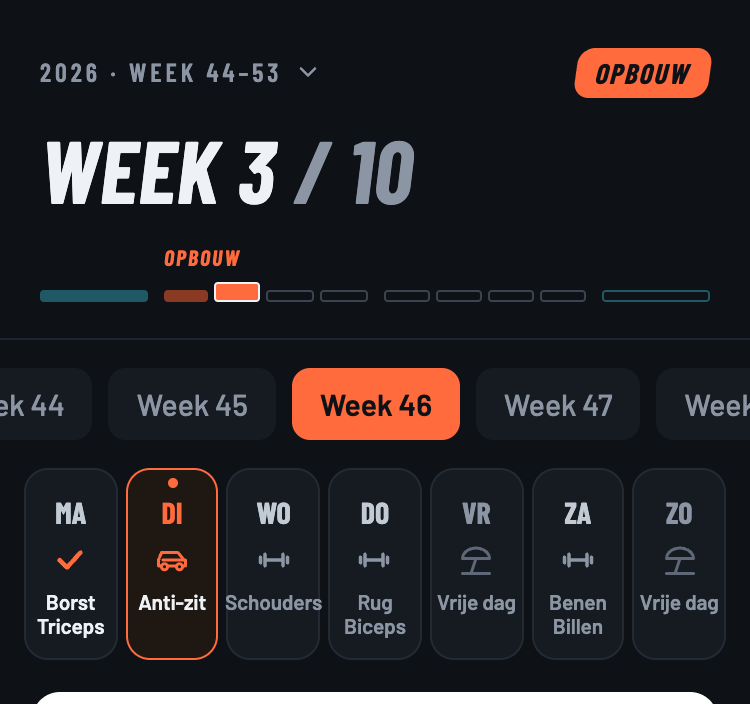
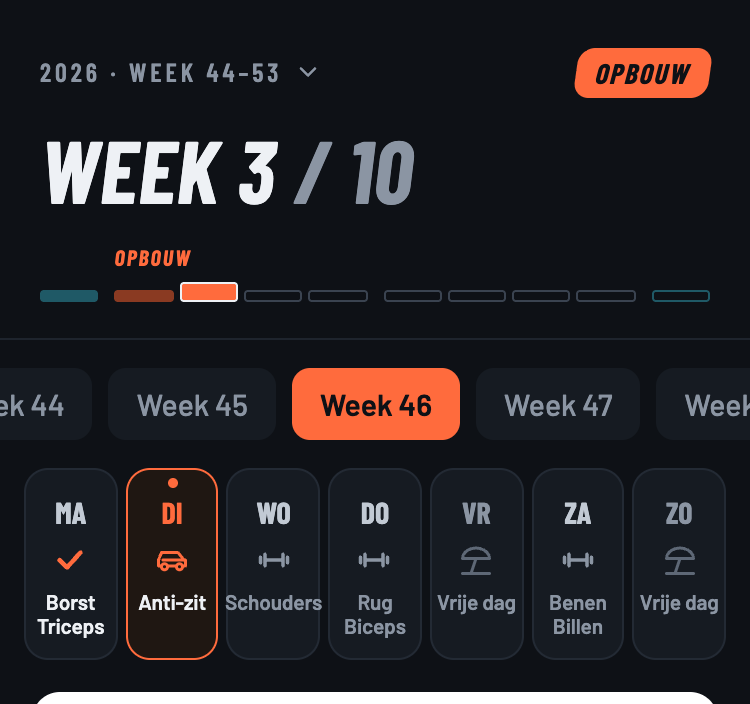
workout-app: phase bar — every week the same width, deload included
Drop the fixed 54px deload group width: each group's flex now grows with
its week count, with a basis equal to its own 3px inter-week gaps so bars in
bigger groups aren't narrower. Done bars get a 1px border in their own fill
colour, since a borderless bar came out 2px narrower than bordered ones
(flex 1 + border-box). Phase label above the current group unchanged.
Spec item 1 and CLAUDE.md updated to match. Flag-on only; flag off still
0-pixel diff against main (8/8).

Claude-Session: https://claude.ai/code/session_01AYfiKWhLuBib5s6b9vhGZd

diff --git a/workout-app/fitness_schema.jsx b/workout-app/fitness_schema.jsx
@@ -2127,7 +2127,10 @@ function PhaseBar({ theme, weeks, selectedYw }) {
         const rightHalf = weeksBefore + g.weeks.length / 2 > sorted.length / 2;
         weeksBefore += g.weeks.length;
         return (
-          <div key={gi} style={{ flex: deload ? "0 0 54px" : `${g.weeks.length} 1 0`, minWidth: 0, display: "flex", flexDirection: "column", gap: 6 }}>
+          // Every week bar the same width, deload included: the group grows
+          // with its week count, and its basis is exactly its own 3px
+          // inter-week gaps, so those don't eat into its bars' share.
+          <div key={gi} style={{ flex: `${g.weeks.length} 1 ${3 * (g.weeks.length - 1)}px`, minWidth: 0, display: "flex", flexDirection: "column", gap: 6 }}>
             <div style={{ height: 13, display: "flex", justifyContent: rightHalf ? "flex-end" : "flex-start" }}>
               {current && (
                 <span style={{ flex: "none", lineHeight: "13px", fontFamily: theme.fontHead, fontWeight: 700, fontStyle: "italic", fontSize: 11, letterSpacing: 1, textTransform: "uppercase", color, whiteSpace: "nowrap" }}>
@@ -2138,12 +2141,16 @@ function PhaseBar({ theme, weeks, selectedYw }) {
             <div style={{ display: "flex", gap: 3, alignItems: "flex-end", height: 10 }}>
               {g.weeks.map(w => {
                 const state = w.yw < selectedYw ? "done" : w.yw === selectedYw ? "current" : "future";
+                const doneColor = deload ? theme.phaseDoneDeload : theme.phaseDone;
+                // Every state has a 1px border (done: in its own fill colour):
+                // with flex 1 + border-box a borderless bar would start 2px
+                // smaller than a bordered one and end up narrower.
                 return (
                   <div key={w.yw} style={{
                     flex: 1, boxSizing: "border-box", borderRadius: 2,
                     height: state === "current" ? 10 : 6,
-                    background: state === "done" ? (deload ? theme.phaseDoneDeload : theme.phaseDone) : state === "current" ? color : "transparent",
-                    border: state === "current" ? `1px solid ${theme.text}` : state === "future" ? `1px solid ${deload ? theme.phaseDoneDeload : theme.phaseFuture}` : "none",
+                    background: state === "done" ? doneColor : state === "current" ? color : "transparent",
+                    border: `1px solid ${state === "current" ? theme.text : state === "future" ? (deload ? theme.phaseDoneDeload : theme.phaseFuture) : doneColor}`,
                   }} />
                 );
               })}

diff --git a/workout-app/CLAUDE.md b/workout-app/CLAUDE.md
@@ -198,7 +198,7 @@ A dark visual redesign, rolled out in 5 PRs behind a per-device flag. Spec and a
 - **Branching pattern:** every redesigned render site is `theme ? <new> : <old, unchanged>` (or a style object chosen by `theme`). Handlers are shared, never duplicated — e.g. `WeekDayTile` builds `tileHandlers`/`summaryTabHandlers` once and spreads them into both looks. With the flag on the root div only changes `background`; `color`/`fontFamily` stay, so not-yet-redesigned cards render as before on the dark page.
 - **Fonts:** Barlow Condensed (600, 700, 700 italic) + Barlow (400, 500, 600, 600 italic), self-hosted via `@fontsource/*` latin files imported in `src/main.jsx`. Only `@font-face` rules ship in the CSS bundle; a woff2 is fetched only when text uses the family, i.e. only with the flag on. Not precached (would download for every device); a Workbox `runtimeCaching` CacheFirst rule (`redesign-fonts`) in `vite.config.js` caches them on first use for offline. Because they can arrive after the week tabs were centred (wider tabs), the centring effect re-runs on `document.fonts.ready` when the flag is on.
 - **Done in PR 1:** `SnelHeader` (eyebrow → year sheet, skewed phase pill — cyan when `week.phase === "Deload"`, "WEEK x / y" title, archive "Naar <jaar>"/"Nog geen schema" line), `PhaseBar`, week tabs, day strip (`WeekDayTile` with `theme`, `DayTileIcon` line icons), offline banner.
-- **`PhaseBar`:** the displayed block's weeks (`schema.weeks` filtered on `schemaId`, `yw` order) grouped per consecutive identical `phase`. Before the selected week = done (dimmed), selected = 10 px with a white outline, after = outline only; `Deload` groups are cyan and fixed 54 px wide. Only the current group shows its name — block 37–43 has a different phase every week and seven names don't fit at phone width (decision 2026-11-10); a name in the right half of the bar aligns to its group's right edge so it never runs off the bar.
+- **`PhaseBar`:** the displayed block's weeks (`schema.weeks` filtered on `schemaId`, `yw` order) grouped per consecutive identical `phase`. Before the selected week = done (dimmed), selected = 10 px with a white outline, after = outline only; `Deload` groups are cyan. Every week bar has the same width, deload included: a group is `flex: N 1 <3·(N−1)>px` (N = its week count; the basis is exactly its own 3 px inter-week gaps, so a plain `N 1 0` would make bars in bigger groups a few px narrower). Only the current group shows its name — block 37–43 has a different phase every week and seven names don't fit at phone width (decision 2026-11-10); a name in the right half of the bar aligns to its group's right edge so it never runs off the bar.
 - **Not designed yet (same tokens applied, flagged in PRs):** archive mode, power_hour/boksen tile icons (stopwatch/lightning bolt), offline banner. The "Schema laden…" loading screen stays light until PR 5.
 
 ## Section render order

diff --git a/workout-app/docs/redesign-snel/redesign-snel.md b/workout-app/docs/redesign-snel/redesign-snel.md
@@ -86,10 +86,13 @@ squares (`skewX(-8deg)`). Set pills are NOT italic.
    skewed filled pill (accent; cyan when the current week is a deload). Big
    title "WEEK 3 / 10" (x / y, "/ 10" muted), Barlow Condensed 700 italic
    44 px. Under it the **phase bar**: weeks grouped per phase from
-   `schema_weeks.phase`, phase name above each group (current phase coloured,
-   others `dim`), done weeks dimmed accent, current week taller with a white
-   outline, future weeks outlined only, deload weeks cyan. Replaces the old
-   phase badge.
+   `schema_weeks.phase`. Every week has the same width, deload weeks
+   included: each group's width grows with its week count (no fixed width
+   for deload groups). Only the current group shows its phase name above it,
+   coloured (a block like 37–43 has a different phase every week, and all
+   names don't fit at phone width). Done weeks dimmed accent, current week
+   taller with a white outline, future weeks outlined only, deload weeks
+   cyan. Replaces the old phase badge.
 2. **Week tabs.** Same behaviour as now: all weeks with training data,
    horizontal scroll, current week centred on open. Calendar week labels
    ("Week 46"). Small and calm: Barlow 500 15 px, `muted` on `card`, no
